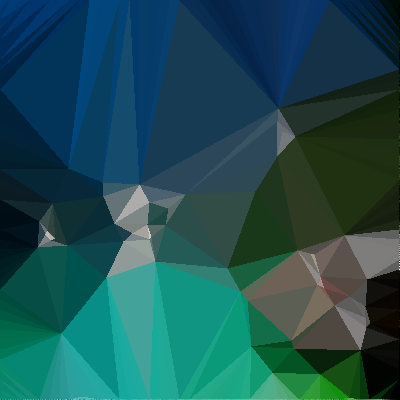
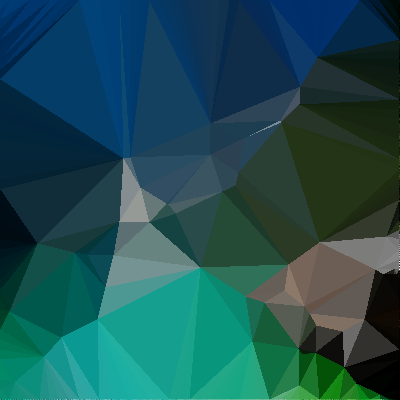
Delete testing code

diff --git a/polygonize.py b/polygonize.py
@@ -18,7 +18,7 @@ def cluster_img(img: np.ndarray, clusters: int) -> np.ndarray:
     # Initialize kmeans model
     kmeans = MiniBatchKMeans(
         n_clusters=clusters,
-        max_iter=1,
+        max_iter=50,
         batch_size=2560,
         tol=0.0,
         max_no_improvement=5
@@ -83,6 +83,9 @@ def triangulate(original_img: np.ndarray, clustered_img: np.ndarray, vertices: f
     res = filters.sobel(rgb2gray(clustered_img))
     res[res > 0.1] = 1
     res[res <= 0.1] = 0
+
+    plt.imshow(res, cmap='gray')
+    plt.show()
 
     # Select a random subset of edge points
     j, i = np.nonzero(res)
